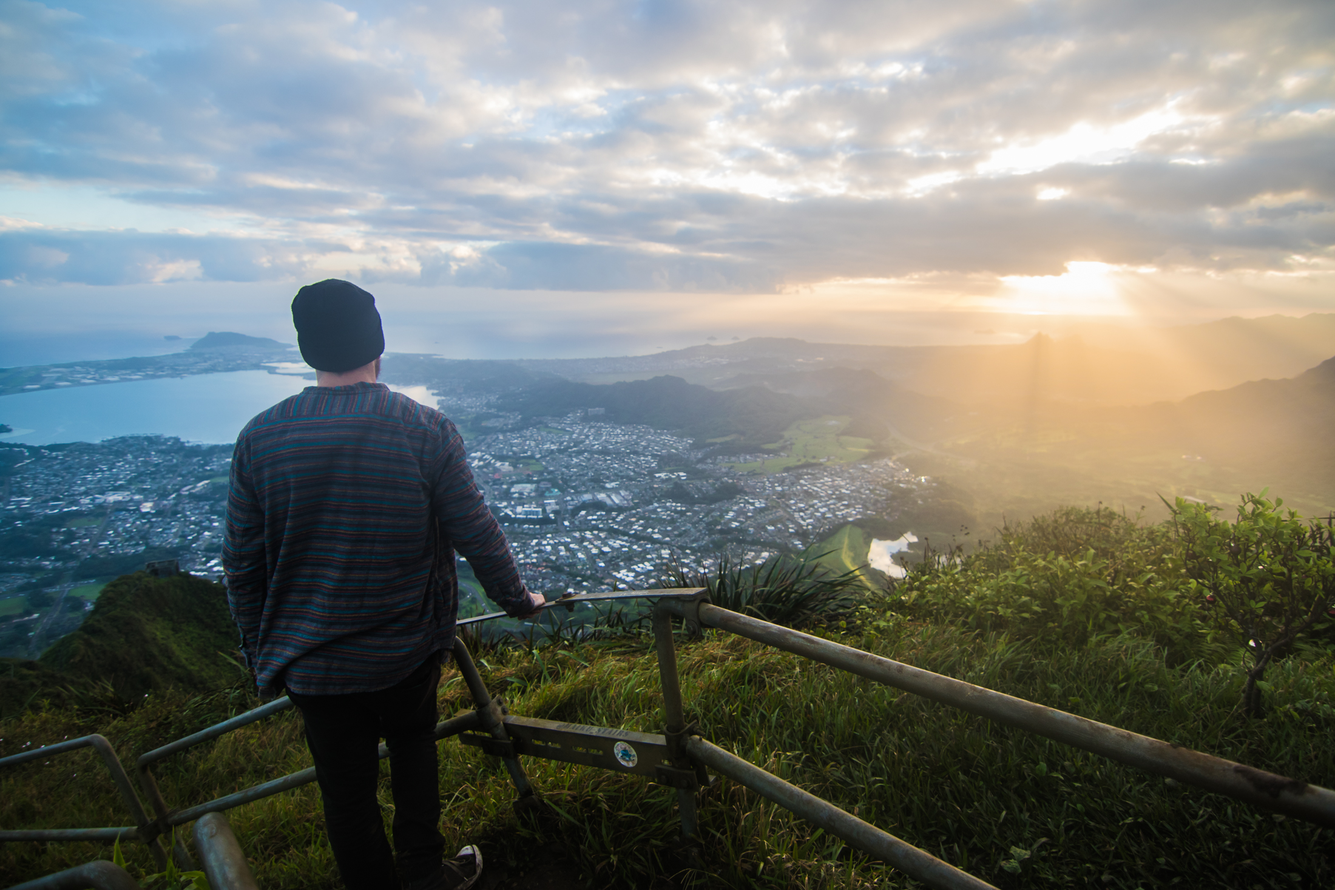
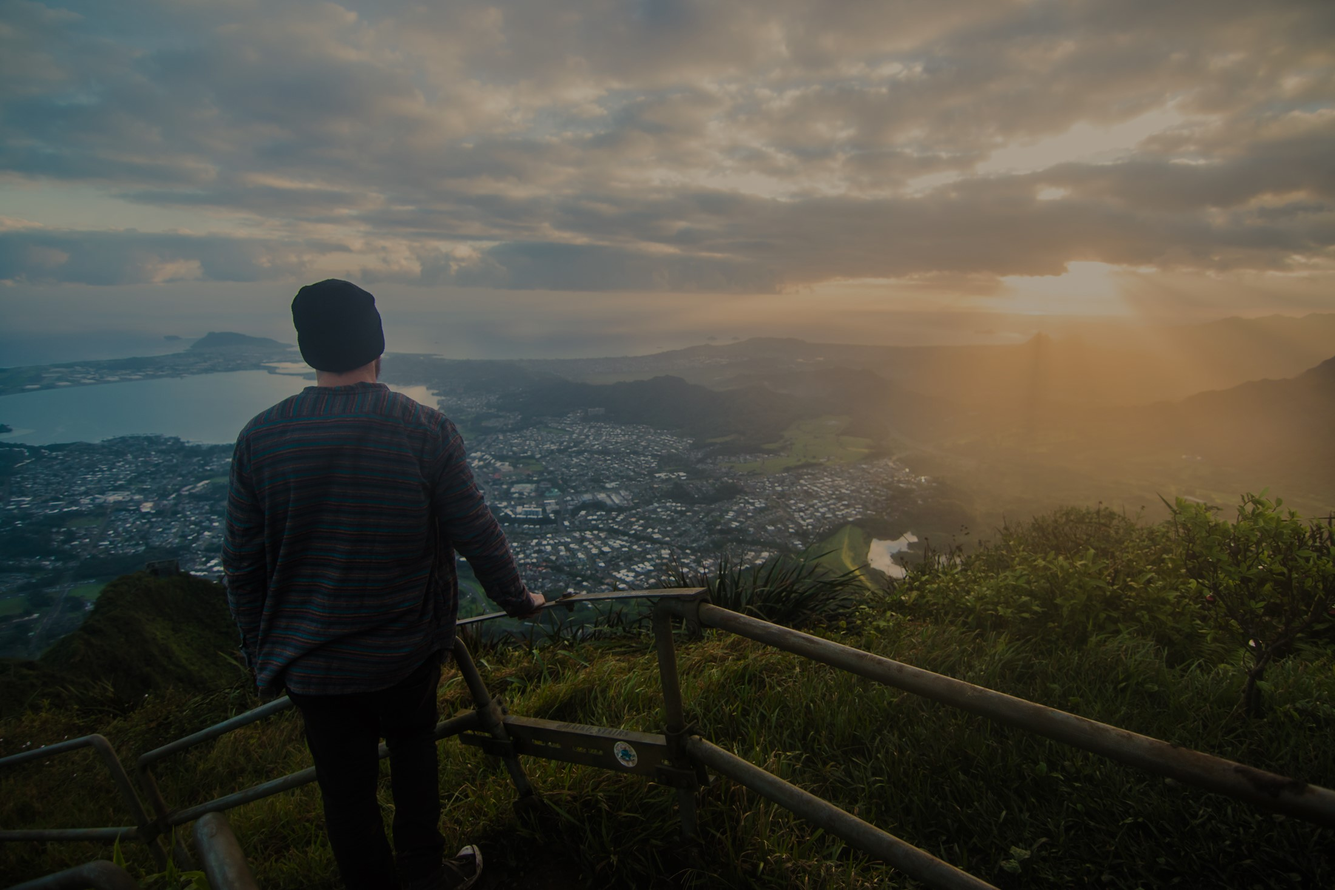
Added black backgrounds to separate sections

diff --git a/src/components/summary.jsx b/src/components/summary.jsx
@@ -46,23 +46,28 @@ class Summary extends Component{
         return(
             <React.Fragment>
                 <div className="container-fluid">
+                <h1 className="whiteText">Summary</h1>
+                <div style={{"paddingBottom":"25px"}}/>
+                    <p className="whiteText">Placeholder</p>
+                <div style={{"paddingBottom":"250px"}}/>
                 <div className="row">
                     <div className={columnClass}>
-                        <ImageAndText image={frontendLogo} imageClass="bwLogo" title={text.frontend.title} text={text.frontend.text} width={this.logoDetails.width}/>
+                        <ImageAndText image={frontendLogo} imageClass="summaryLogo" textClass="whiteText" title={text.frontend.title} text={text.frontend.text} width={this.logoDetails.width}/>
                     </div>
                     <div className={columnClass}>
-                        <ImageAndText image={backendLogo} imageClass="bwLogo" title={text.backend.title} text={text.backend.text} width={this.logoDetails.width}/>
+                        <ImageAndText image={backendLogo} imageClass="summaryLogo" textClass="whiteText" title={text.backend.title} text={text.backend.text} width={this.logoDetails.width}/>
                     </div>
                 </div>
                 <div className="row">
                     <div className={columnClass}>
-                        <ImageAndText image={softwareEngineeringLogo} imageClass="bwLogo" title={text.softwareEngineering.title} text={text.softwareEngineering.text} width={this.logoDetails.width}/>
+                        <ImageAndText image={softwareEngineeringLogo} imageClass="summaryLogo" textClass="whiteText" title={text.softwareEngineering.title} text={text.softwareEngineering.text} width={this.logoDetails.width}/>
                     </div>
                     <div className={columnClass}>
-                        <ImageAndText image={computerScienceLogo} imageClass="bwLogo" title={text.computerScience.title} text={text.frontend.text} width={this.logoDetails.width}/>
+                        <ImageAndText image={computerScienceLogo} imageClass="summaryLogo" textClass="whiteText" title={text.computerScience.title} text={text.frontend.text} width={this.logoDetails.width}/>
                     </div>
                 </div>
                 </div>
+                <div style={{"paddingBottom":"100px"}}/>
 
             </React.Fragment>);
     }

diff --git a/src/components/aboutpage.jsx b/src/components/aboutpage.jsx
@@ -24,27 +24,35 @@ class AboutPage extends Component {
     
       render() { 
         const { language, onLanguageChange } = this.props;
-        const anchorClass = "pageAnchor";
+        const divMargin = "sectionMargin";
         
         return (
         <div className="pageContainer">
           <NavBarDynamic language={language} onLanguageChange={onLanguageChange} imageHeight={this.state.imageHeight}/>
           <div id="introduction" className=""/>
           <Introduction language={language} onImageSizeChange={this.handleBackgroundImageResize} onImageLoad={this.handleLoadImage}/>
+          
+          <div className="blackBackground">
+            <div className="container">
+              <div id="summary" className={divMargin}/>
+                <Summary language={language}/>
+              <div className={divMargin}/>
+          </div>
+            </div>
           <div className="container">
-            <div id="summary" className={anchorClass}/>
-            <Summary language={language}/>
-            <hr/>
-            <div id="education" className={anchorClass}/>
+            <div id="education" className={divMargin}/>
             <Education/>
-            <div id="specializedCourses" className={anchorClass}/>
+            <div id="specializedCourses" className={divMargin}/>
             <SpecializedCourses language={language}/>
-            <hr/>
-            <div id="technicalSkills" className={anchorClass}/>
+            <div className={divMargin}/>
+            </div>
+            <div className="blackBackground"><div className="container"><div id="technicalSkills" className={divMargin}/>
             <TechnicalSkills language={language}/>
-            <div id="otherSkills" className={anchorClass}/>
+            <div className={divMargin}/></div></div>
+            <div className="container">
+            <div id="otherSkills" className={divMargin}/>
             <OtherSkills language={language}/>
-            <div id="otherSkills" className={anchorClass}/>
+            <div id="otherSkills" className={divMargin}/>
           </div>
           <Footer/>
         </div>

diff --git a/src/App.css b/src/App.css
@@ -36,16 +36,21 @@ body{
   overflow-x: hidden;
 }
 
+/** Ensures image stays at the exact size to fill the users
+    browser window if they are scrolled to the top of the screen*/
 .backgroundImage{
+
   width: 100vw;
   height: 100vh;
+  min-height: 50vh;
+  max-height: 100vh;
   object-fit: cover;
 }
 
 .introTitle{
   position: absolute;
   text-align: center;
-  color: black;
+  color: white;
   padding-top: 30%;
   padding-left: 5%;
   font: bold 100px Helvetica;
@@ -55,7 +60,7 @@ body{
 .introSubtitle{
   position: absolute;
   text-align: center;
-  color: black;
+  color: white;
   padding-top: 40%;
   padding-left: 5%;
   font: bold 60px Helvetica;
@@ -100,16 +105,12 @@ body{
   color: white;
 }
 
-.darkBackground{
-  background-color: black;
-}
-
 .summaryTitle{
   font-weight: bold;
 }
 
-.bwLogo{
-  filter: grayscale(100%);
+.summaryLogo{
+  filter: grayscale(100%) invert(1);
 }
 
 .footerSmall{
@@ -130,6 +131,10 @@ body{
 
 }
 
-.pageAnchor{
+.sectionMargin{
   padding-bottom: 100px;
+}
+
+.blackBackground{
+  background-color: rgb(0,0,0);
 }

diff --git a/src/components/technicalskills.jsx b/src/components/technicalskills.jsx
@@ -25,9 +25,9 @@ class TechnicalSkills extends Skills {
         
         return ( 
         <div>
-            <h1>Technical Skills</h1>
+            <h1 className="whiteText">Technical Skills</h1>
             <AnimatedLogos logos={getLogos()} logoSize={this.logoSize} displayTime={7000}/>
-            {Object.keys(text).map(key => this.createSkillCategory(text[key].title, text[key].text, "skillCategoryTitle", "skillCategoryText", key))}
+            {Object.keys(text).map(key => this.createSkillCategory(text[key].title, text[key].text, "skillCategoryTitle whiteText", "skillCategoryText whiteText", key))}
         </div>
         );
     }

diff --git a/src/components/footer.jsx b/src/components/footer.jsx
@@ -23,7 +23,7 @@ class Footer extends Component {
       const {className} = this.props;
       const {  title, links } = getDropDownItems();
         return (
-            <div className={className} style={{"backgroundColor":"rgb(33,33,33)"}}>
+            <div className={className} style={{"backgroundColor":"rgb(0,0,0)"}}>
             <footer className="page-footer pt-4">
               <div className="container text-center text-md-left">
                 <div className="row">

diff --git a/src/components/imageandtext.jsx b/src/components/imageandtext.jsx
@@ -23,8 +23,8 @@ class ImageAndText extends Component {
                 <img className={imageClass} src={image} width={width} height={height}/>
             </div>
             <div className="col-8">
-                <p className="summaryTitle">{title}</p>
-                <p>{text}</p>
+                <p className="summaryTitle whiteText">{title}</p>
+                <p className="whiteText">{text}</p>
             </div>
         </div>);
     }
